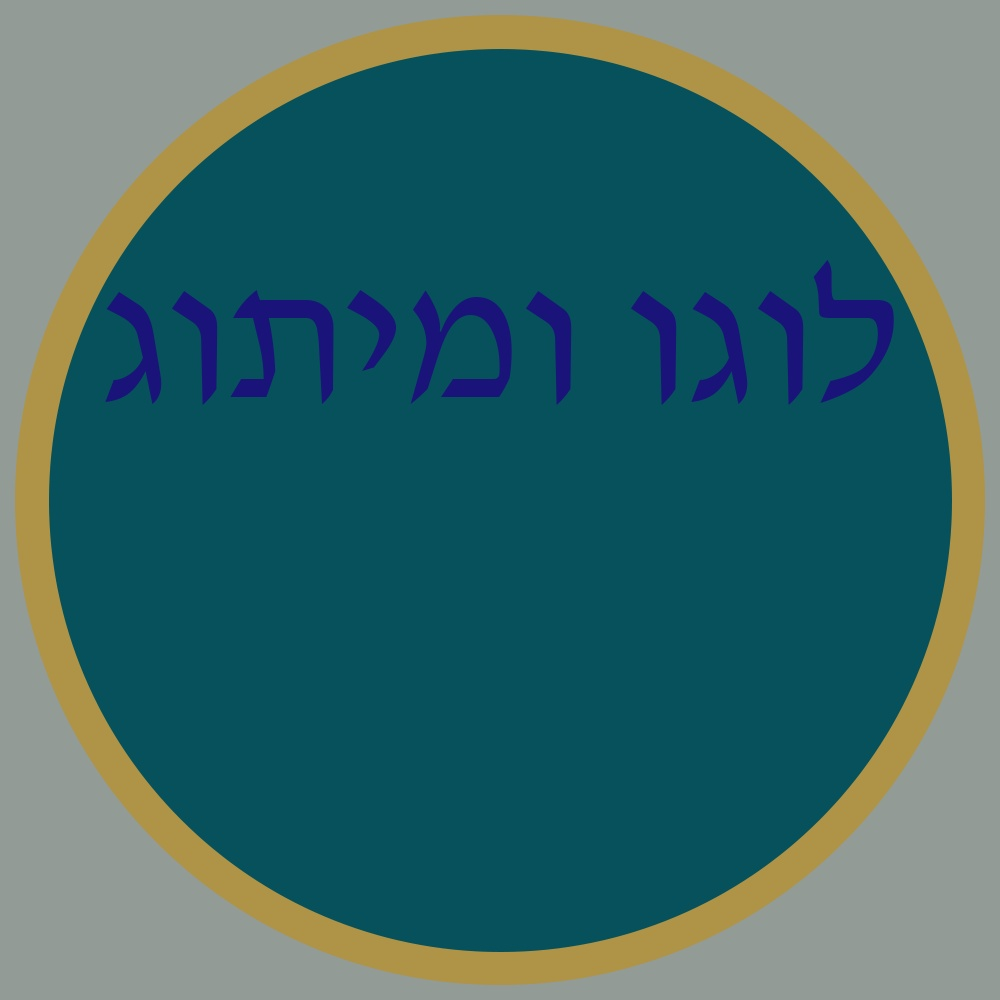
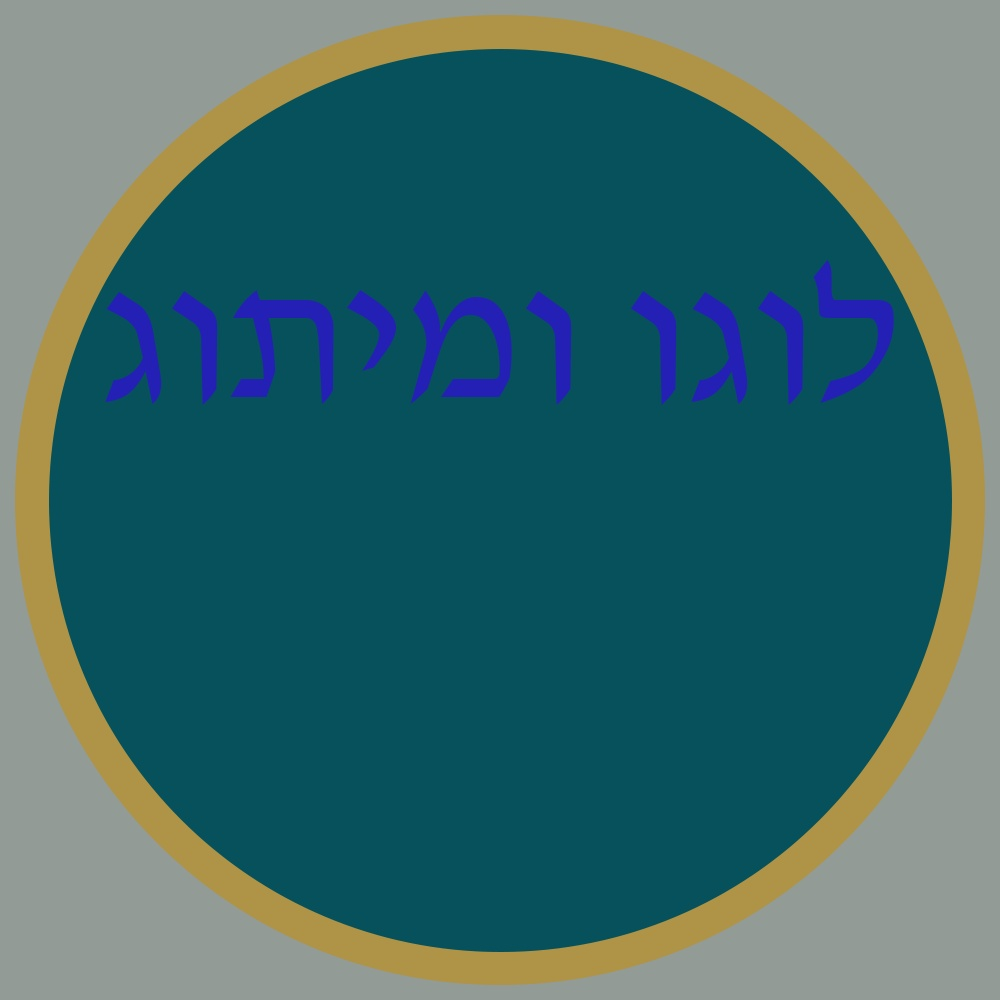
it must be the blending settings

Changed region(s): [[0.093, 0.279, 0.589, 0.403], [0.62, 0.248, 0.899, 0.403]]

diff --git a/main.py b/main.py
@@ -64,7 +64,7 @@ def TestTextToIcon(Text, TemplateImage, Font, FilePath):
     draw.text(
         (100,250), # text space
         Text, # the words themeseves 
-        (122, 19, 25), # colour in rbg
+        (181, 32, 37), # colour in rbg
         font=monospace) # which font
 
     
